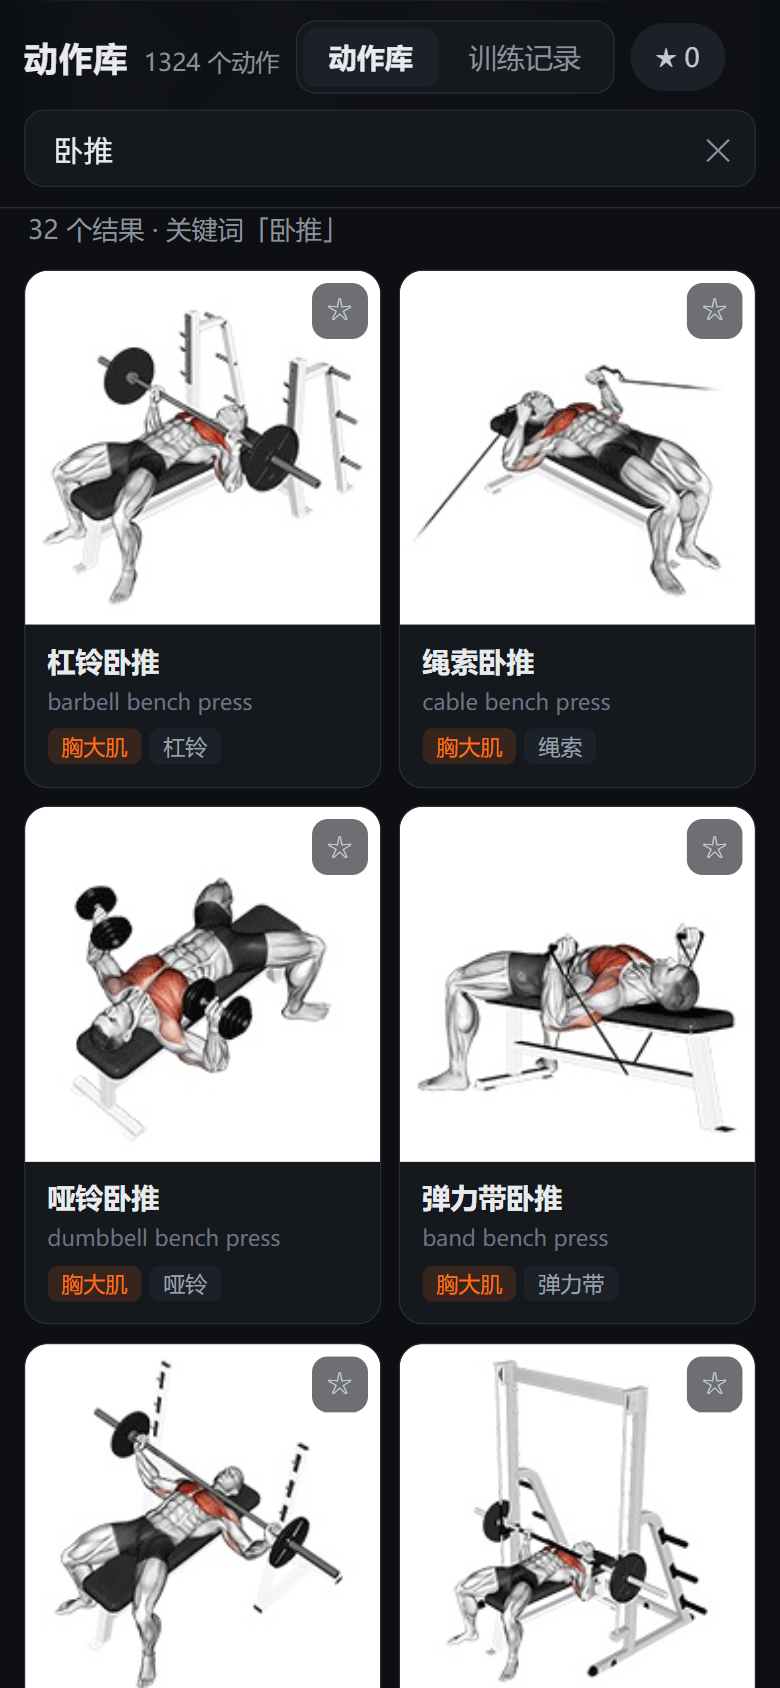
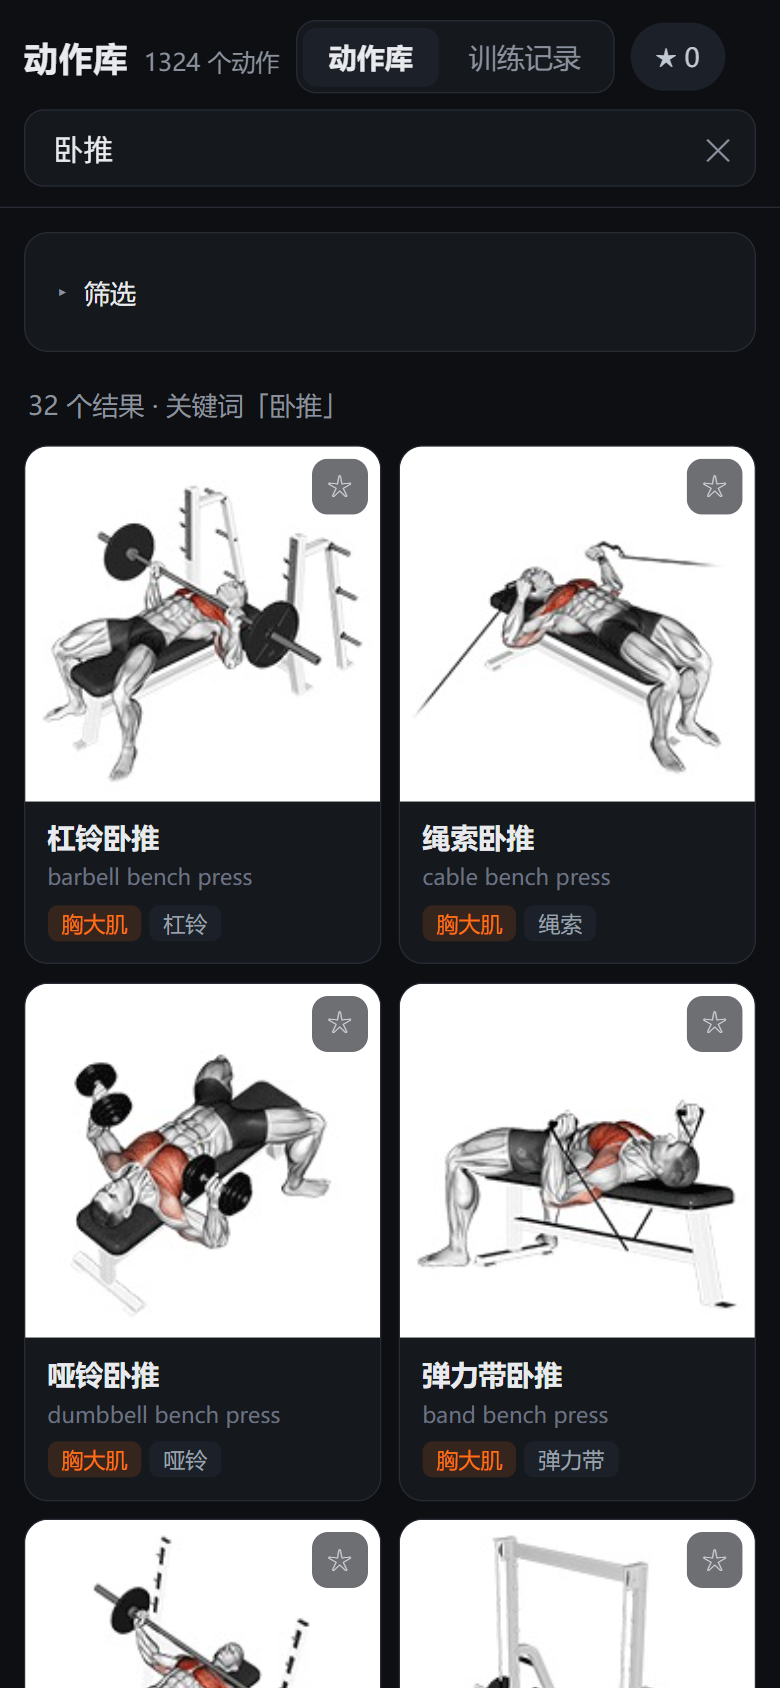
文档与截图跟上筛选面板的改动
- README 目录里 FilterBar 的说明补上「手机上默认收起 —— 展开时占首屏六成」
- backlog 记下这条（截图时发现的，不是看代码看出来的）
- 重截 library.png：原来那张展示的是筛选展开的样子，而手机上默认已经不是那样了，
  留着会误导

diff --git a/docs/backlog.md b/docs/backlog.md
@@ -23,6 +23,7 @@
 | 每次按键全量落盘 | 手机上一次按键 17 ms（超过一帧），输入发黏；桌面只有 1.5 ms，察觉不到 | 本次 |
 | `mediaUrl` 回退到第三方取图 | 那个「兜底」域名国内基本不通，且永远匹配不上缓存规则 —— 给的不是图，是超时 | 本次 |
 | 媒体清单缺失会让**整个应用**打不开 | `.catch()` 只兜住 fetch 没兜住 `.json()`；SPA fallback 返回 HTML+200 → 应用显示「数据加载失败」，把人引去查动作数据 | 本次（删兜底时发现） |
+| 手机上筛选面板占首屏六成 | 三排 chip 一直展开着，要滚过大半屏才看见第一个动作 | 本次（截图时发现） |
 
 ## 测试（已完成）
 

diff --git a/README.md b/README.md
@@ -92,7 +92,7 @@ src/
   lib/date.ts                本地日期。**任何「哪一天」的值都必须走这里**
   lib/id.ts                  新记录 id。非安全上下文下 crypto.randomUUID 不存在
   lib/alert.ts               计时提示音 + 震动，含 iOS 的手势解锁
-  components/FilterBar       三维筛选
+  components/FilterBar       三维筛选（手机上默认收起 —— 展开时占首屏六成）
   components/ExerciseCard    动作卡片
   components/DetailPanel     动作详情抽屉
   components/WorkoutPanel    训练记录页
